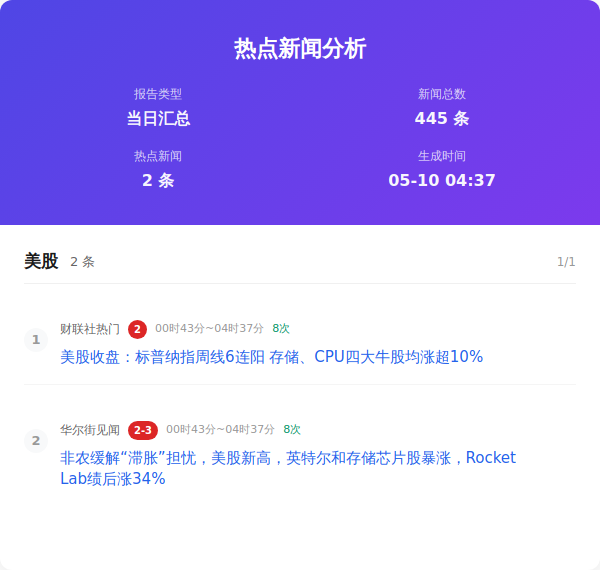
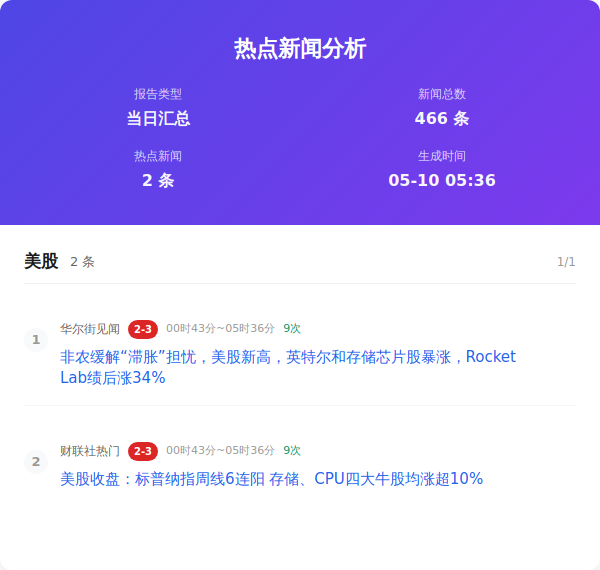
Auto update by GitHub Actions at Sun May 10 05:36:50 CST 2026

diff --git a/output/2026年05月10日/html/当日汇总.html b/output/2026年05月10日/html/当日汇总.html
@@ -357,7 +357,7 @@
                     </div>
                     <div class="info-item">
                         <span class="info-label">新闻总数</span>
-                        <span class="info-value">445 条</span>
+                        <span class="info-value">466 条</span>
                     </div>
                     <div class="info-item">
                         <span class="info-label">热点新闻</span>
@@ -365,7 +365,7 @@
                     </div>
                     <div class="info-item">
                         <span class="info-label">生成时间</span>
-                        <span class="info-value">05-10 04:37</span>
+                        <span class="info-value">05-10 05:36</span>
                     </div>
                 </div>
             </div>
@@ -383,9 +383,9 @@
                         <div class="news-number">1</div>
                         <div class="news-content">
                             <div class="news-header">
-                                <span class="source-name">财联社热门</span><span class="rank-num top">2</span><span class="time-info">00时43分~04时37分</span><span class="count-info">8次</span>
+                                <span class="source-name">华尔街见闻</span><span class="rank-num top">2-3</span><span class="time-info">00时43分~05时36分</span><span class="count-info">9次</span>
                             </div>
-                            <div class="news-title"><a href="https://www.cls.cn/detail/2366633" target="_blank" class="news-link">美股收盘：标普纳指周线6连阳 存储、CPU四大牛股均涨超10%</a>
+                            <div class="news-title"><a href="https://wallstreetcn.com/articles/3771825" target="_blank" class="news-link">非农缓解“滞胀”担忧，美股新高，英特尔和存储芯片股暴涨，Rocket Lab绩后涨34%</a>
                             </div>
                         </div>
                     </div>
@@ -393,9 +393,9 @@
                         <div class="news-number">2</div>
                         <div class="news-content">
                             <div class="news-header">
-                                <span class="source-name">华尔街见闻</span><span class="rank-num top">2-3</span><span class="time-info">00时43分~04时37分</span><span class="count-info">8次</span>
+                                <span class="source-name">财联社热门</span><span class="rank-num top">2-3</span><span class="time-info">00时43分~05时36分</span><span class="count-info">9次</span>
                             </div>
-                            <div class="news-title"><a href="https://wallstreetcn.com/articles/3771825" target="_blank" class="news-link">非农缓解“滞胀”担忧，美股新高，英特尔和存储芯片股暴涨，Rocket Lab绩后涨34%</a>
+                            <div class="news-title"><a href="https://www.cls.cn/detail/2366633" target="_blank" class="news-link">美股收盘：标普纳指周线6连阳 存储、CPU四大牛股均涨超10%</a>
                             </div>
                         </div>
                     </div>